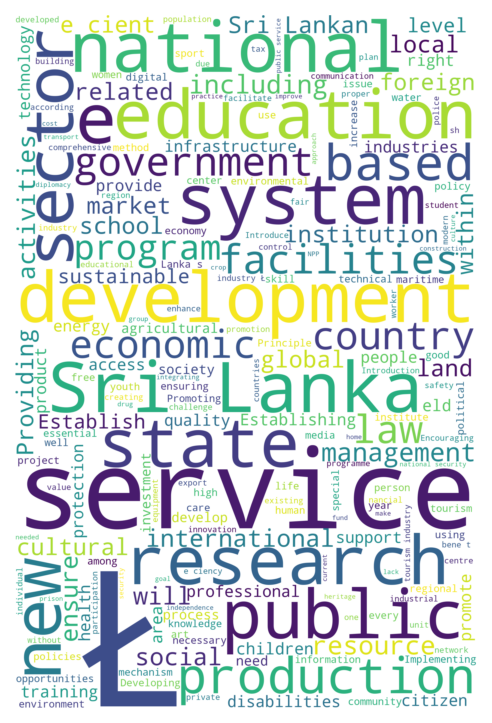
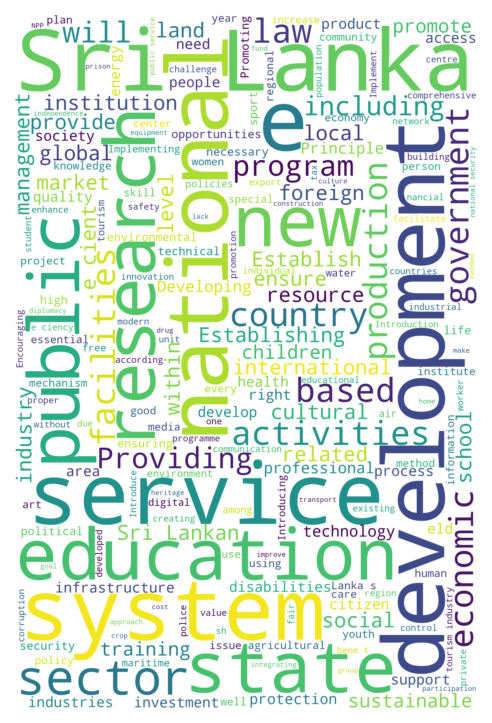
🤖 various (pre-lint)

diff --git a/src/manifestos/Manifesto.py b/src/manifestos/Manifesto.py
@@ -94,6 +94,10 @@ class Manifesto:
         txt_file.write(content)
         log.info(f'Wrote {self.txt_path}')
         return content
+    
+    @cached_property
+    def content_ascii(self):
+        return ''.join([c if ord(c) < 128 else ' ' for c in self.content])
 
     @cached_property
     def words(self):
@@ -130,7 +134,7 @@ class Manifesto:
             width=2000,
             height=3000,
         )
-        wc.generate(self.content)
+        wc.generate(self.content_ascii)
         plt.figure()
         plt.imshow(wc, interpolation="bilinear")
         plt.axis("off")
